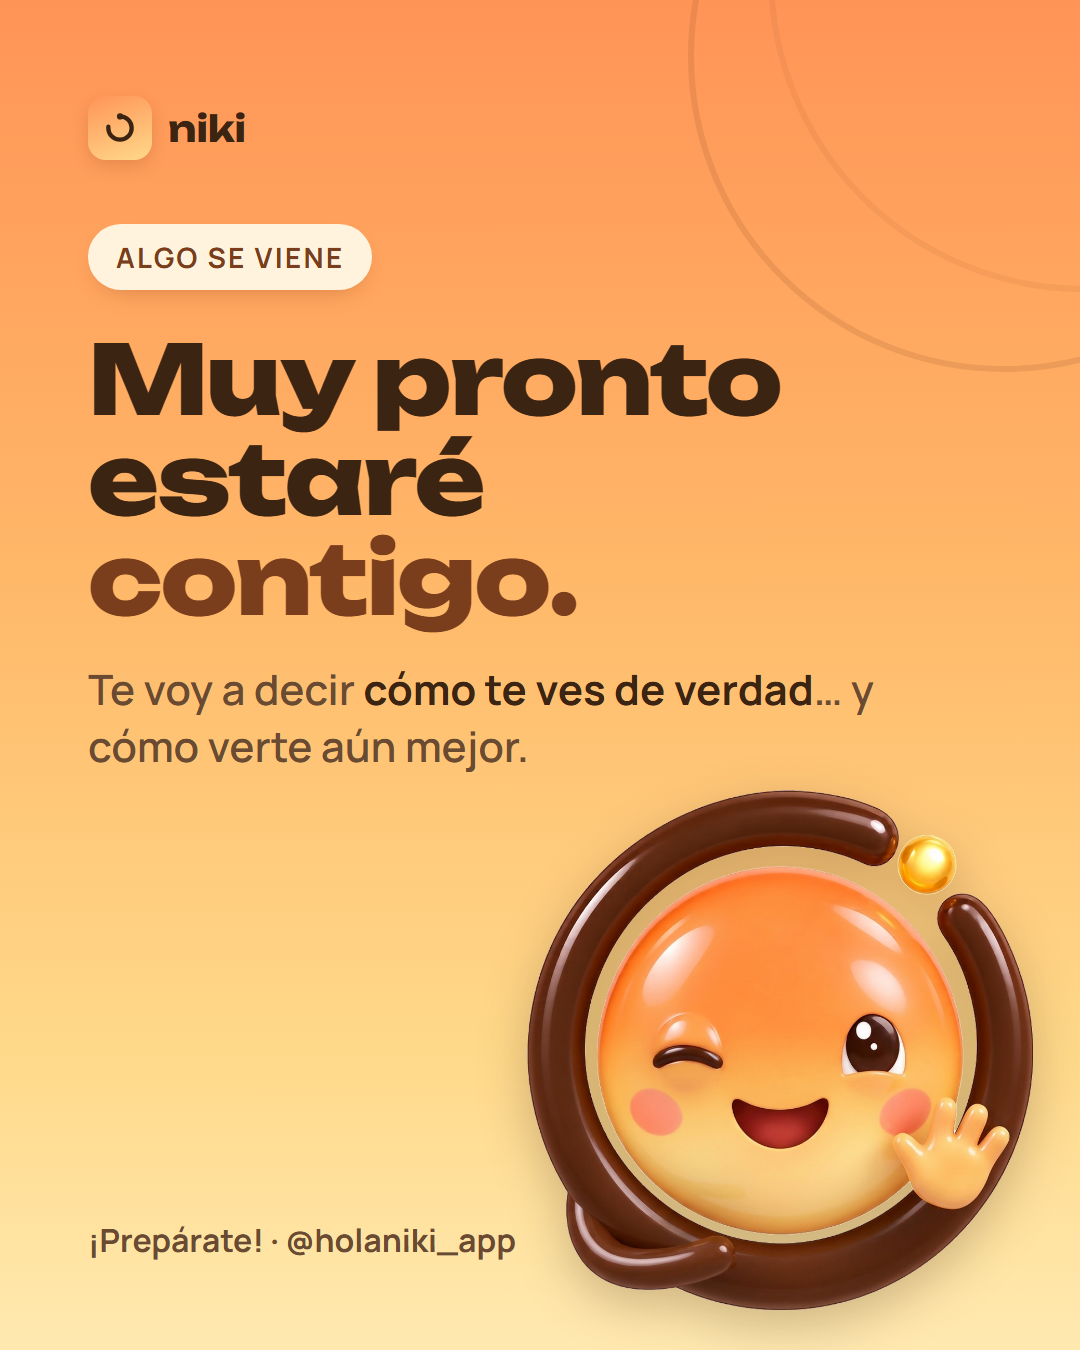
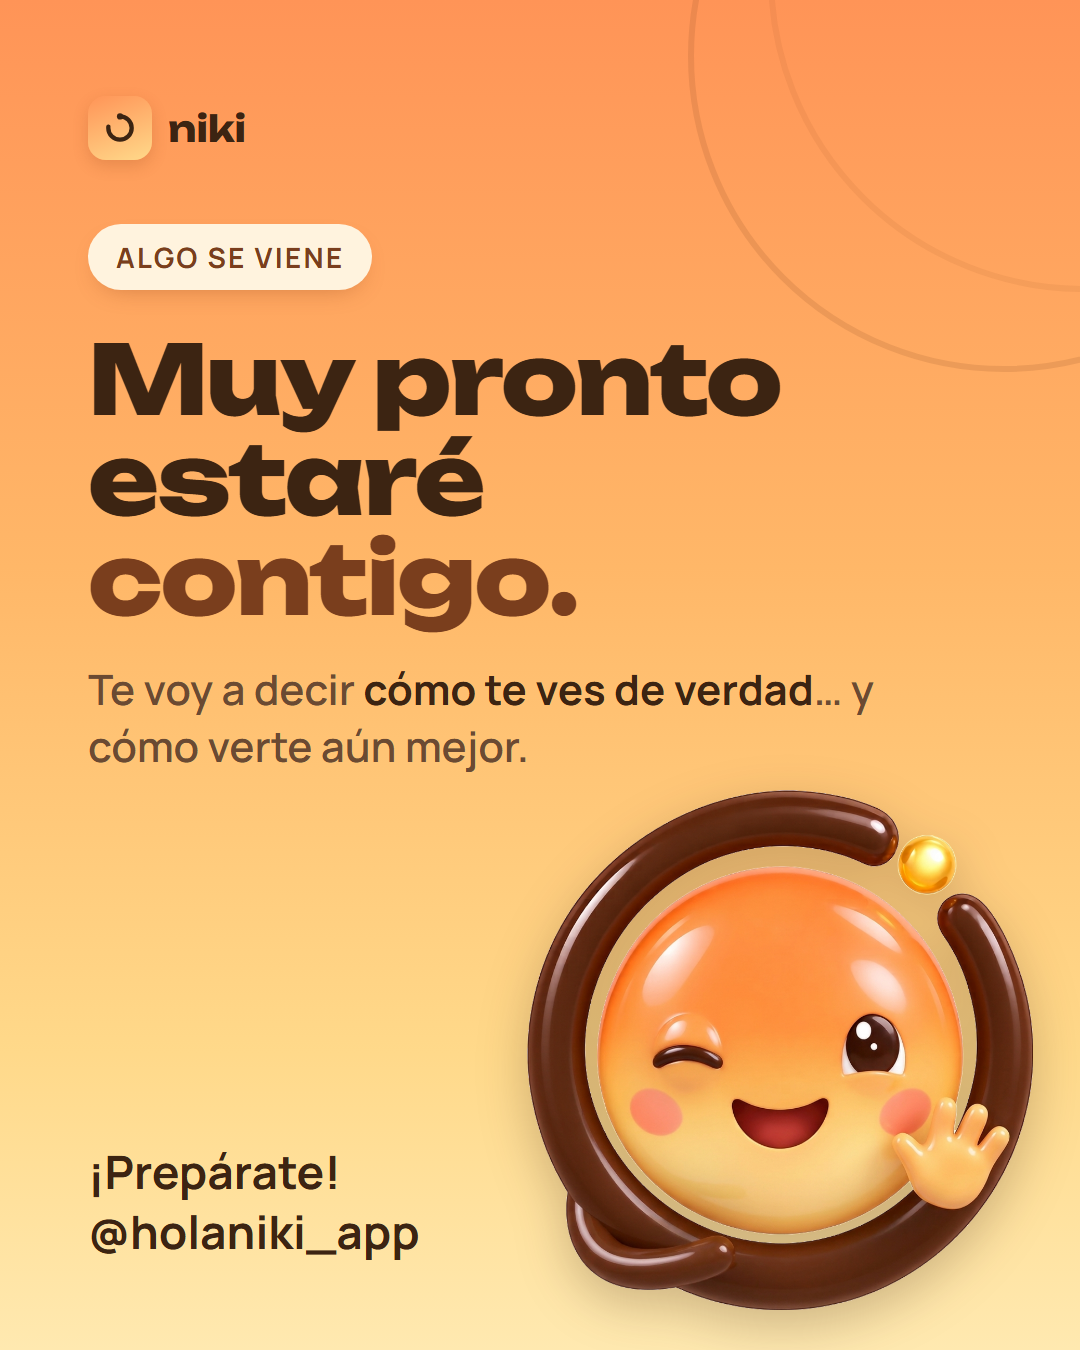
style: texto inferior mas grande en el aviso previo

Changed region(s): [[0.0611, 0.84, 0.4889, 0.9333]]

diff --git a/contenido/aviso-previo/aviso-previo.html b/contenido/aviso-previo/aviso-previo.html
@@ -26,10 +26,10 @@
   .sub b { color: var(--text); font-weight: 700; }
   .niki { position: absolute; right: 40px; bottom: 40px; width: 520px; filter: drop-shadow(0 16px 24px rgb(60 36 18 / .25)); }
   .vertical .niki { width: 640px; right: 220px; bottom: 300px; }
-  .pie { position: absolute; left: 88px; bottom: 88px; font-size: 32px; font-weight: 700; color: var(--text-2); }
+  .pie { position: absolute; left: 88px; bottom: 88px; font-size: 46px; line-height: 1.3; font-weight: 700; color: var(--text); }
   .vertical .pie { bottom: 200px; }
   .cta { margin-top: 56px; background: var(--accent); color: #FFF3DE; border-radius: 32px; padding: 36px 48px; font-size: 44px; font-weight: 700; width: fit-content; position: relative; }
-  .url { font-family: 'Unbounded', monospace; font-size: 40px; font-weight: 700; }
+  .url { font-family: 'Unbounded', monospace; font-size: 50px; font-weight: 700; }
 </style>
 </head>
 <body>
@@ -42,7 +42,7 @@
   <h1>Muy pronto estaré <em>contigo.</em></h1>
   <p class="sub">Te voy a decir <b>cómo te ves de verdad</b>… y cómo verte aún mejor.</p>
   <img class="niki" src="niki/niki-saludando.png" alt="">
-  <p class="pie">¡Prepárate! · @holaniki_app</p>
+  <p class="pie">¡Prepárate!<br>@holaniki_app</p>
 </section>
 
 <section class="slide" id="dia2">
@@ -51,7 +51,7 @@
   <h1>¿Alguna vez saliste <em>sin saber</em> si te veías bien?</h1>
   <p class="sub">Yo te lo digo <b>antes de salir</b>. Con la verdad, sin críticas crueles.</p>
   <img class="niki" src="niki/niki-pensando.png" alt="" style="width:460px">
-  <p class="pie">Mañana llego · @holaniki_app</p>
+  <p class="pie">Mañana llego<br>@holaniki_app</p>
 </section>
 
 <section class="slide" id="dia3">
